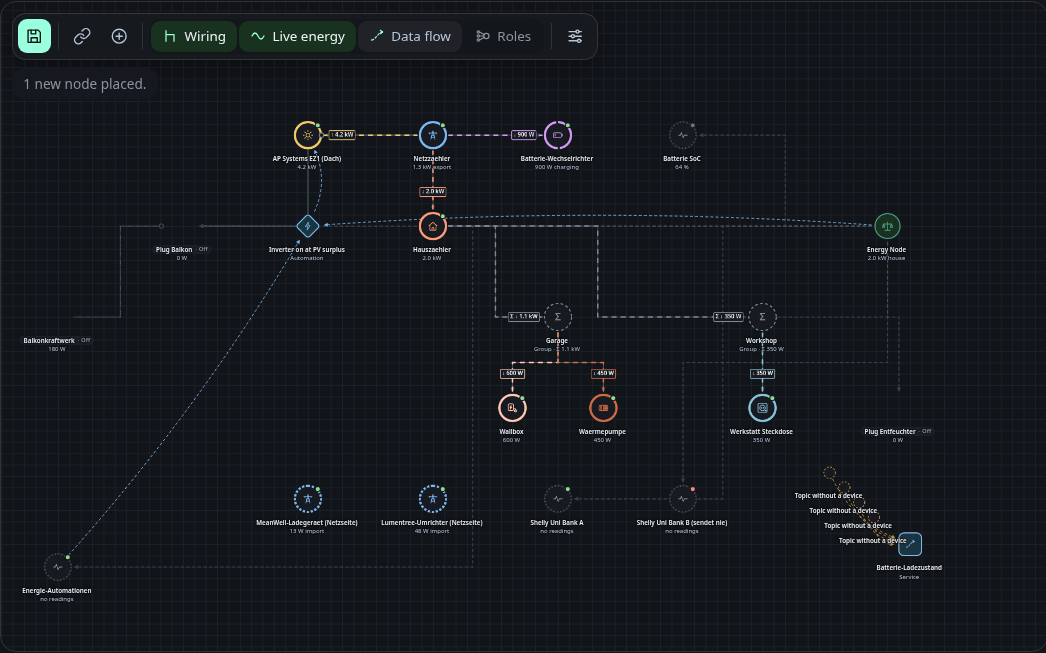
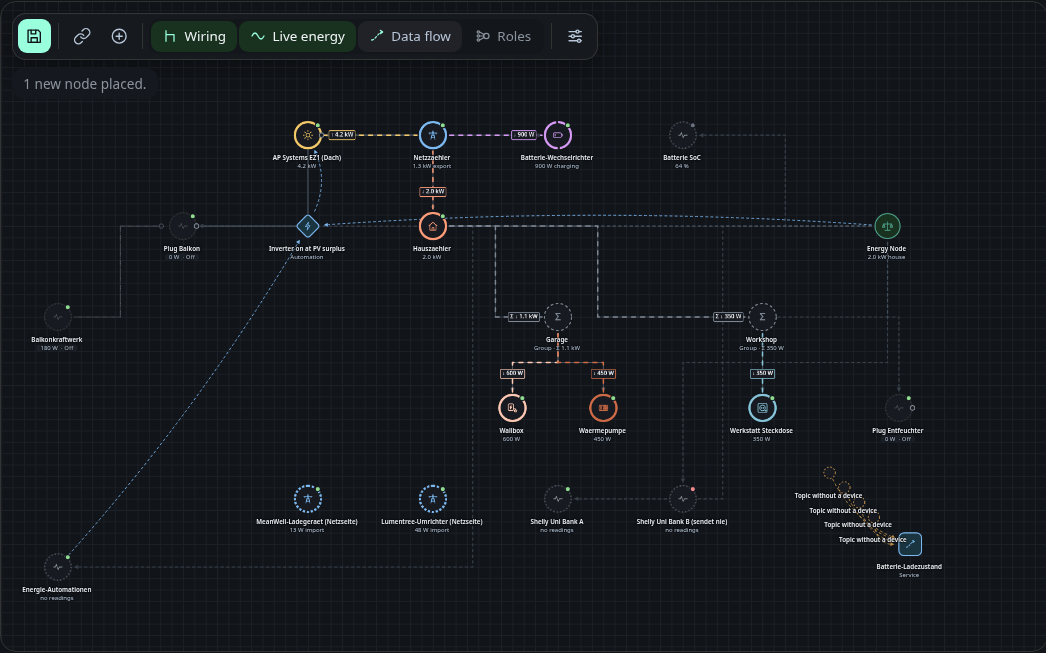
fix(devicemap): draw quiet node images, move the off pill and echo switch commands
Cytoscape kept data() inside a background-image list as a literal URL, so quiet nodes drew no image. The image is now a style function and covered by a test against real Cytoscape. The off pill sits under the value instead of the name. The minibroker echoes discovery switch commands as non-retained state so the registry resolves the pending command. Device map doc images retaken.

diff --git a/dashboard/internal/webui/templates/base.html b/dashboard/internal/webui/templates/base.html
@@ -218,11 +218,11 @@
   <section id="stats-panel" class="panel" role="tabpanel" aria-labelledby="tab-stats" x-bind:class="{ active: activePanel === 'stats-panel' }" x-show="activePanel === 'stats-panel'" data-panel-src="{{.BasePath}}/?fragment=panel&panel=stats" data-panel-script="{{.BasePath}}/static/js-deps/apexcharts.min.js,{{.BasePath}}/static/js/energy-model.js?v=4,{{.BasePath}}/static/js/energy-stats-model.js?v=3,{{.BasePath}}/static/js/stats.page.js?v=4" data-panel-css="{{.BasePath}}/static/css/history.css?v=7,{{.BasePath}}/static/css/stats.css?v=3"><p class="panel-loading" data-panel-loading>{{t "panel.stats_loading"}}</p></section>
   {{if .Manager}}
   <section id="diagnostics-panel" class="panel" role="tabpanel" aria-labelledby="tab-diagnostics" x-bind:class="{ active: activePanel === 'diagnostics-panel' }" x-show="activePanel === 'diagnostics-panel'" data-panel-src="{{.BasePath}}/?fragment=panel&panel=diagnostics" data-panel-css="{{.BasePath}}/static/css/settings-controls.css?v=14,{{.BasePath}}/static/css/diagnostics.css?v=2"><p class="panel-loading" data-panel-loading>{{t "panel.diagnostics_loading"}}</p></section>
-  <section id="config-panel" class="panel" role="tabpanel" aria-labelledby="tab-config" x-bind:class="{ active: activePanel === 'config-panel' }" x-show="activePanel === 'config-panel'" data-panel-src="{{.BasePath}}/?fragment=panel&panel=config" data-panel-script="{{.BasePath}}/static/js/revisions.js?v=4,{{.BasePath}}/static/js/schema-form.js?v=2,{{.BasePath}}/static/js/config-status.js?v=3,{{.BasePath}}/static/js/config.page.js?v=9" data-panel-css="{{.BasePath}}/static/css/manager.css?v=38"><p class="panel-loading" data-panel-loading>{{t "panel.config_loading"}}</p></section>
-  <section id="energy-panel" class="panel" role="tabpanel" aria-labelledby="tab-energy" x-bind:class="{ active: activePanel === 'energy-panel' }" x-show="activePanel === 'energy-panel'" data-panel-src="{{.BasePath}}/?fragment=panel&panel=energy" data-panel-script="{{.BasePath}}/static/js-deps/cytoscape.min.js,{{.BasePath}}/static/js/revisions.js?v=4,{{.BasePath}}/static/js/devicemap-model.js?v=10,{{.BasePath}}/static/js/devicemap-graph.js?v=5,{{.BasePath}}/static/js/devicemap-wiring.js?v=1,{{.BasePath}}/static/js/devicemap-dataflow.js?v=4,{{.BasePath}}/static/js/devicemap-node-svg.js?v=5,{{.BasePath}}/static/js/devicemap-labels.js?v=3,{{.BasePath}}/static/js/energy-plant.js?v=5,{{.BasePath}}/static/js/device-picker.js?v=1,{{.BasePath}}/static/js/energy.page.js?v=10" data-panel-css="{{.BasePath}}/static/css/manager.css?v=38"><p class="panel-loading" data-panel-loading>{{t "panel.energy_loading"}}</p></section>
-  <section id="devicemap-panel" class="panel" role="tabpanel" aria-labelledby="tab-devicemap" x-bind:class="{ active: activePanel === 'devicemap-panel' }" x-show="activePanel === 'devicemap-panel'" data-panel-src="{{.BasePath}}/?fragment=panel&panel=devicemap" data-panel-script="{{.BasePath}}/static/js-deps/cytoscape.min.js,{{.BasePath}}/static/js/revisions.js?v=4,{{.BasePath}}/static/js/devicemap-model.js?v=10,{{.BasePath}}/static/js/devicemap-node-svg.js?v=5,{{.BasePath}}/static/js/devicemap-labels.js?v=3,{{.BasePath}}/static/js/devicemap-graph.js?v=5,{{.BasePath}}/static/js/devicemap-wiring.js?v=1,{{.BasePath}}/static/js/devicemap-dataflow.js?v=4,{{.BasePath}}/static/js/automations-view.js?v=2,{{.BasePath}}/static/js/device-picker.js?v=1,{{.BasePath}}/static/js/devicemap-switch.js?v=1,{{.BasePath}}/static/js/devicemap.page.js?v=25" data-panel-css="{{.BasePath}}/static/css/manager.css?v=38"><p class="panel-loading" data-panel-loading>{{t "panel.devicemap_loading"}}</p></section>
-  <section id="settings-panel" class="panel" role="tabpanel" aria-labelledby="tab-settings" x-bind:class="{ active: activePanel === 'settings-panel' }" x-show="activePanel === 'settings-panel'" data-panel-src="{{.BasePath}}/?fragment=panel&panel=settings" data-panel-script="{{.BasePath}}/static/js-deps/choices.min.js,{{.BasePath}}/static/js/revisions.js?v=4,{{.BasePath}}/static/js/schema-form.js?v=2,{{.BasePath}}/static/js/settings.page.js?v=23,{{.BasePath}}/static/js/mqtt.page.js?v=10,{{.BasePath}}/static/js/tailscale.page.js?v=4,{{.BasePath}}/static/js/versions.page.js?v=7,{{.BasePath}}/static/js/systemconfig.page.js?v=5" data-panel-css="{{.BasePath}}/static/css/choices.min.css,{{.BasePath}}/static/css/choices.css?v=2,{{.BasePath}}/static/css/manager.css?v=38,{{.BasePath}}/static/css/settings-controls.css?v=14"><p class="panel-loading" data-panel-loading>{{t "panel.settings_loading"}}</p></section>
-  {{if index .InstalledServices "automation"}}<section id="automations-panel" class="panel" role="tabpanel" aria-labelledby="tab-automations" x-bind:class="{ active: activePanel === 'automations-panel' }" x-show="activePanel === 'automations-panel'" data-panel-src="{{.BasePath}}/?fragment=panel&panel=automations" data-panel-script="{{.BasePath}}/static/js/config-status.js?v=3,{{.BasePath}}/static/js/automations-view.js?v=2,{{.BasePath}}/static/js/automations.page.js?v=12" data-panel-css="{{.BasePath}}/static/css/manager.css?v=38,{{.BasePath}}/static/css/automations.css?v=6"><p class="panel-loading" data-panel-loading>{{t "panel.automations_loading"}}</p></section>{{end}}
+  <section id="config-panel" class="panel" role="tabpanel" aria-labelledby="tab-config" x-bind:class="{ active: activePanel === 'config-panel' }" x-show="activePanel === 'config-panel'" data-panel-src="{{.BasePath}}/?fragment=panel&panel=config" data-panel-script="{{.BasePath}}/static/js/revisions.js?v=4,{{.BasePath}}/static/js/schema-form.js?v=2,{{.BasePath}}/static/js/config-status.js?v=3,{{.BasePath}}/static/js/config.page.js?v=9" data-panel-css="{{.BasePath}}/static/css/manager.css?v=39"><p class="panel-loading" data-panel-loading>{{t "panel.config_loading"}}</p></section>
+  <section id="energy-panel" class="panel" role="tabpanel" aria-labelledby="tab-energy" x-bind:class="{ active: activePanel === 'energy-panel' }" x-show="activePanel === 'energy-panel'" data-panel-src="{{.BasePath}}/?fragment=panel&panel=energy" data-panel-script="{{.BasePath}}/static/js-deps/cytoscape.min.js,{{.BasePath}}/static/js/revisions.js?v=4,{{.BasePath}}/static/js/devicemap-model.js?v=10,{{.BasePath}}/static/js/devicemap-graph.js?v=6,{{.BasePath}}/static/js/devicemap-wiring.js?v=1,{{.BasePath}}/static/js/devicemap-dataflow.js?v=4,{{.BasePath}}/static/js/devicemap-node-svg.js?v=5,{{.BasePath}}/static/js/devicemap-labels.js?v=4,{{.BasePath}}/static/js/energy-plant.js?v=5,{{.BasePath}}/static/js/device-picker.js?v=1,{{.BasePath}}/static/js/energy.page.js?v=10" data-panel-css="{{.BasePath}}/static/css/manager.css?v=39"><p class="panel-loading" data-panel-loading>{{t "panel.energy_loading"}}</p></section>
+  <section id="devicemap-panel" class="panel" role="tabpanel" aria-labelledby="tab-devicemap" x-bind:class="{ active: activePanel === 'devicemap-panel' }" x-show="activePanel === 'devicemap-panel'" data-panel-src="{{.BasePath}}/?fragment=panel&panel=devicemap" data-panel-script="{{.BasePath}}/static/js-deps/cytoscape.min.js,{{.BasePath}}/static/js/revisions.js?v=4,{{.BasePath}}/static/js/devicemap-model.js?v=10,{{.BasePath}}/static/js/devicemap-node-svg.js?v=5,{{.BasePath}}/static/js/devicemap-labels.js?v=4,{{.BasePath}}/static/js/devicemap-graph.js?v=6,{{.BasePath}}/static/js/devicemap-wiring.js?v=1,{{.BasePath}}/static/js/devicemap-dataflow.js?v=4,{{.BasePath}}/static/js/automations-view.js?v=2,{{.BasePath}}/static/js/device-picker.js?v=1,{{.BasePath}}/static/js/devicemap-switch.js?v=1,{{.BasePath}}/static/js/devicemap.page.js?v=25" data-panel-css="{{.BasePath}}/static/css/manager.css?v=39"><p class="panel-loading" data-panel-loading>{{t "panel.devicemap_loading"}}</p></section>
+  <section id="settings-panel" class="panel" role="tabpanel" aria-labelledby="tab-settings" x-bind:class="{ active: activePanel === 'settings-panel' }" x-show="activePanel === 'settings-panel'" data-panel-src="{{.BasePath}}/?fragment=panel&panel=settings" data-panel-script="{{.BasePath}}/static/js-deps/choices.min.js,{{.BasePath}}/static/js/revisions.js?v=4,{{.BasePath}}/static/js/schema-form.js?v=2,{{.BasePath}}/static/js/settings.page.js?v=23,{{.BasePath}}/static/js/mqtt.page.js?v=10,{{.BasePath}}/static/js/tailscale.page.js?v=4,{{.BasePath}}/static/js/versions.page.js?v=7,{{.BasePath}}/static/js/systemconfig.page.js?v=5" data-panel-css="{{.BasePath}}/static/css/choices.min.css,{{.BasePath}}/static/css/choices.css?v=2,{{.BasePath}}/static/css/manager.css?v=39,{{.BasePath}}/static/css/settings-controls.css?v=14"><p class="panel-loading" data-panel-loading>{{t "panel.settings_loading"}}</p></section>
+  {{if index .InstalledServices "automation"}}<section id="automations-panel" class="panel" role="tabpanel" aria-labelledby="tab-automations" x-bind:class="{ active: activePanel === 'automations-panel' }" x-show="activePanel === 'automations-panel'" data-panel-src="{{.BasePath}}/?fragment=panel&panel=automations" data-panel-script="{{.BasePath}}/static/js/config-status.js?v=3,{{.BasePath}}/static/js/automations-view.js?v=2,{{.BasePath}}/static/js/automations.page.js?v=12" data-panel-css="{{.BasePath}}/static/css/manager.css?v=39,{{.BasePath}}/static/css/automations.css?v=6"><p class="panel-loading" data-panel-loading>{{t "panel.automations_loading"}}</p></section>{{end}}
   {{else}}
   <section id="diagnostics-panel" class="panel" role="tabpanel" aria-labelledby="tab-diagnostics" x-bind:class="{ active: activePanel === 'diagnostics-panel' }" x-show="activePanel === 'diagnostics-panel'" data-panel-src="{{.BasePath}}/?fragment=panel&panel=diagnostics" data-panel-css="{{.BasePath}}/static/css/settings-controls.css?v=14,{{.BasePath}}/static/css/diagnostics.css?v=2"><p class="panel-loading" data-panel-loading>{{t "panel.diagnostics_loading"}}</p></section>
   {{end}}

diff --git a/dashboard/internal/webui/static/js/devicemap-labels.js b/dashboard/internal/webui/static/js/devicemap-labels.js
@@ -19,23 +19,23 @@
           el = document.createElement('div');
           el.className = 'devicemap-node-label';
           el.dataset.labelId = item.id;
-          // The title wrapper is the pill for switched-off nodes, so it
-          // wraps the name and the off text together.
-          const title = document.createElement('span');
-          title.className = 'devicemap-node-title';
           const name = document.createElement('span');
           name.className = 'devicemap-node-name';
-          title.appendChild(name);
+          // The reading wrapper is the pill for switched-off nodes, so it
+          // wraps the value and the off text together.
+          const reading = document.createElement('span');
+          reading.className = 'devicemap-node-reading';
           const value = document.createElement('span');
           value.className = 'devicemap-node-value';
-          el.append(title, value);
+          reading.appendChild(value);
+          el.append(name, reading);
           container.appendChild(el);
           byId.set(item.id, el);
         }
-        const title = el.querySelector('.devicemap-node-title');
-        title.querySelector('.devicemap-node-name').textContent = item.name;
+        el.querySelector('.devicemap-node-name').textContent = item.name;
         el.querySelector('.devicemap-node-value').textContent = item.value;
-        const off = title.querySelector('.devicemap-node-off');
+        const reading = el.querySelector('.devicemap-node-reading');
+        const off = reading.querySelector('.devicemap-node-off');
         if (item.off) {
           el.classList.add('is-off');
           if (off) {
@@ -44,7 +44,7 @@
             const pill = document.createElement('span');
             pill.className = 'devicemap-node-off';
             pill.textContent = `· ${item.offText}`;
-            title.appendChild(pill);
+            reading.appendChild(pill);
           }
         } else {
           el.classList.remove('is-off');

diff --git a/dashboard/internal/webui/static/css/manager.css b/dashboard/internal/webui/static/css/manager.css
@@ -401,12 +401,12 @@ select.schema-control {
 .devicemap-node-label.is-dimmed { opacity: .18; }
 .devicemap-node-label.is-hidden { opacity: 0; }
 @media (prefers-reduced-motion: reduce) { .devicemap-node-label { transition-delay: 0ms !important; } }
-/* Off pill: a grey capsule around the name and "· Aus" of a switched-off node. */
-.devicemap-node-title { display: inline-flex; align-items: center; gap: .35em; padding: 1px 7px; border-radius: 999px;
+/* Off pill: a grey capsule around the value and "· Aus" of a switched-off node. */
+.devicemap-node-reading { display: inline-flex; align-items: center; gap: .35em; padding: 0 7px; border-radius: 999px;
   background-color: transparent; transition: opacity 250ms var(--ease-out), background-color 250ms var(--ease-out); }
-.devicemap-node-label.is-off .devicemap-node-title { background-color: var(--panel-alt); }
+.devicemap-node-label.is-off .devicemap-node-reading { background-color: var(--panel-alt); }
 .devicemap-node-off { font-size: 10.5px; font-weight: 600; color: var(--text-muted); line-height: 1.25; }
-@media (prefers-reduced-motion: reduce) { .devicemap-node-title { transition-duration: 150ms; } }
+@media (prefers-reduced-motion: reduce) { .devicemap-node-reading { transition-duration: 150ms; } }
 .devicemap-node-name { font-size: 11px; font-weight: 600; color: var(--text-strong); line-height: 1.25; }
 .devicemap-node-value { font-size: 10.5px; color: var(--text-subtle); font-variant-numeric: tabular-nums; line-height: 1.25; }
 .devicemap-overlay {

diff --git a/dashboard/internal/webui/static/js/devicemap-graph.js b/dashboard/internal/webui/static/js/devicemap-graph.js
@@ -181,8 +181,10 @@
     {selector: 'edge.devicemap-wiring.devicemap-dead', style: {'line-style': 'dotted', 'line-dash-pattern': [2, 4], 'line-color': theme.faint, 'target-arrow-shape': 'none'}},
     {selector: 'edge.devicemap-cut', style: {'source-arrow-shape': 'circle', 'source-arrow-fill': 'hollow', 'source-arrow-color': theme.faint, 'source-distance-from-node': 6}},
     // Quiet nodes stack the normal and the quiet image. Cytoscape interpolates
-    // the list opacities, Task 8 relies on that for the cross-fade.
-    {selector: 'node[svgQuiet]', style: {'background-image': ['data(svg)', 'data(svgQuiet)'], 'background-image-opacity': [1, 0]}},
+    // the list opacities, the cross-fade relies on that. The list comes from a
+    // function because Cytoscape leaves a data() mapper inside a list as the
+    // literal URL "data(svg)", which draws no image at all.
+    {selector: 'node[svgQuiet]', style: {'background-image': node => [node.data('svg'), node.data('svgQuiet')], 'background-image-opacity': [1, 0]}},
     {selector: 'node[svgQuiet][?quiet]', style: {'background-image-opacity': [0, 1]}},
     {selector: 'edge.devicemap-flow', style: {
       ...(EDGE_STYLES[view.edge_style] || EDGE_STYLES.straight),

diff --git a/dashboard/internal/webui/webui_test.go b/dashboard/internal/webui/webui_test.go
@@ -55,7 +55,7 @@ func TestOverviewRendersManagerControls(t *testing.T) {
 		"id=\"devices-live\"", "hx-get=\"/?fragment=devices-live\"",
 		"id=\"runtime-status\"", "runtimeStatusPanel", "data-runtime-status-enabled=\"true\"", "data-status-bar-items=\"mqtt,storage,uptime,version\"", "aria-live=\"polite\"",
 		"device-detail", "device-modal-warning", "discovery-diagnostics", "discovery_errors", "duplicateIDs", "discovery-error",
-		"Konfiguration", "Einstellungen", "Diagnose", "license-footer", "(0BSD)", "(MIT, Copyright Caleb Porzio)", "ApexCharts 4.7.0", "(MIT, Copyright ApexCharts)", "ApexCharts-Lizenz", "v2.0.6/LICENSE", "v3.14.9/README.md", "configPanel", "x-model=\"selectedName\"", "reloadService()", "show-runtime-status", "showRuntimeStatus", "role=\"switch\"", "settings-toggle-track", "id=\"config-panel\"", "id=\"energy-panel\"", "data-panel-script=\"/static/js/revisions.js?v=4,/static/js/schema-form.js?v=2,/static/js/config-status.js?v=3,/static/js/config.page.js?v=9\"", "data-panel-script=\"/static/js-deps/cytoscape.min.js,/static/js/revisions.js?v=4,/static/js/devicemap-model.js?v=10,/static/js/devicemap-graph.js?v=5,/static/js/devicemap-wiring.js?v=1,/static/js/devicemap-dataflow.js?v=4,/static/js/devicemap-node-svg.js?v=5,/static/js/devicemap-labels.js?v=3,/static/js/energy-plant.js?v=5,/static/js/device-picker.js?v=1,/static/js/energy.page.js?v=10\"", "data-panel-css=\"/static/css/manager.css?v=38\"",
+		"Konfiguration", "Einstellungen", "Diagnose", "license-footer", "(0BSD)", "(MIT, Copyright Caleb Porzio)", "ApexCharts 4.7.0", "(MIT, Copyright ApexCharts)", "ApexCharts-Lizenz", "v2.0.6/LICENSE", "v3.14.9/README.md", "configPanel", "x-model=\"selectedName\"", "reloadService()", "show-runtime-status", "showRuntimeStatus", "role=\"switch\"", "settings-toggle-track", "id=\"config-panel\"", "id=\"energy-panel\"", "data-panel-script=\"/static/js/revisions.js?v=4,/static/js/schema-form.js?v=2,/static/js/config-status.js?v=3,/static/js/config.page.js?v=9\"", "data-panel-script=\"/static/js-deps/cytoscape.min.js,/static/js/revisions.js?v=4,/static/js/devicemap-model.js?v=10,/static/js/devicemap-graph.js?v=6,/static/js/devicemap-wiring.js?v=1,/static/js/devicemap-dataflow.js?v=4,/static/js/devicemap-node-svg.js?v=5,/static/js/devicemap-labels.js?v=4,/static/js/energy-plant.js?v=5,/static/js/device-picker.js?v=1,/static/js/energy.page.js?v=10\"", "data-panel-css=\"/static/css/manager.css?v=39\"",
 		"schema-form", "revision-preview", "config-presets-error",
 		"config-actionbar-dock", "initActionBar()", "actionStatusText", "expandActions()", "id=\"config-form-save\"", "x-on:input=\"formDirty = true\"", "config-json", "resetEditor()", "id=\"config-save\"", "config-meta",
 		"revision-diff", "revisionPanel(revisionConfig())", "setRevisionView('diff')",
@@ -147,7 +147,7 @@ func TestOverviewDoesNotLoadManagerAssetsInitially(t *testing.T) {
 			t.Fatalf("%s does not declare lazy script %q", path, script)
 		}
 	}
-	if !strings.Contains(body, `data-panel-css="/static/css/choices.min.css,/static/css/choices.css?v=2,/static/css/manager.css?v=38,/static/css/settings-controls.css?v=14"`) {
+	if !strings.Contains(body, `data-panel-css="/static/css/choices.min.css,/static/css/choices.css?v=2,/static/css/manager.css?v=39,/static/css/settings-controls.css?v=14"`) {
 		t.Fatal("settings-panel does not declare lazy choices.css + manager.css + settings-controls.css")
 	}
 	if strings.Contains(body, `<link rel="stylesheet" href="/static/css/choices.min.css"`) {
@@ -1121,7 +1121,7 @@ func TestOverviewPrefixesEveryURLBehindAForwardedPrefix(t *testing.T) {
 		`<script src="/node/static/js/dashboard.js`,
 		`<script src="/node/static/js-deps/alpine.min.js"`,
 		`data-panel-src="/node/?fragment=panel&panel=devices"`,
-		`data-panel-css="/node/static/css/choices.min.css,/node/static/css/choices.css?v=2,/node/static/css/manager.css?v=38,/node/static/css/settings-controls.css?v=14"`,
+		`data-panel-css="/node/static/css/choices.min.css,/node/static/css/choices.css?v=2,/node/static/css/manager.css?v=39,/node/static/css/settings-controls.css?v=14"`,
 	} {
 		if !strings.Contains(body, marker) {
 			t.Fatalf("proxied page does not contain %q", marker)

diff --git a/dashboard/test/smoke/minibroker.py b/dashboard/test/smoke/minibroker.py
@@ -20,6 +20,11 @@ Nichts davon wird fuer den Smoke-Test gebraucht. Nicht ausserhalb von Tests verw
 
 PUBLISH von Clients wird wie bei einem echten Broker weitergereicht und retained abgelegt. So sieht das Dashboard seine eigene Discovery und zeigt das Geraet energy_node in jedem Preset.
 
+Discovery-Schalter der Fixture (homeassistant/switch/.../config) antworten wie
+ein Geraet: ein Befehl auf ihrem command_topic setzt den Zustand auf dem
+state_topic. So laesst sich z. B. Plug Balkon im Preset alle-funktionen
+schalten.
+
     python3 minibroker.py [PORT] [FIXTURE.json] [--simulate]
                           [--service-status DEVICES_DIR] [--reject-config NAME ...]
 
@@ -151,6 +156,33 @@ def relay(messages, connections, topic, payload, retain):
                 conn.sendall(publish_packet(topic, payload, retain=False))
         except OSError:
             connections.pop(conn, None)
+    echo_switch(messages, connections, topic, payload)
+
+
+def echo_switch(messages, connections, topic, payload):
+    """Spielt das Geraet hinter einem Discovery-Schalter der Fixture: ein
+    Befehl auf dessen command_topic kommt als neuer Zustand retained auf dem
+    state_topic zurueck. Ohne das bliebe ein Schaltbefehl aus dem Dashboard
+    folgenlos, die Geraetekarte zeigte die Steckdose nie eingeschaltet."""
+    for config_topic, raw in list(messages.items()):
+        if not (config_topic.startswith("homeassistant/switch/") and config_topic.endswith("/config")):
+            continue
+        try:
+            config = json.loads(raw)
+        except ValueError:
+            continue
+        if config.get("command_topic") != topic or not config.get("state_topic"):
+            continue
+        states = {
+            config.get("payload_on", "ON"): config.get("state_on", config.get("payload_on", "ON")),
+            config.get("payload_off", "OFF"): config.get("state_off", config.get("payload_off", "OFF")),
+        }
+        state = states.get(payload.decode("utf-8", "replace"))
+        if state is not None:
+            # broadcast() legt retained ab, sendet aber mit Retain-Flag 0 wie
+            # ein echter Broker an schon verbundene Clients. Nur eine solche
+            # Live-Nachricht bestaetigt im Dashboard den offenen Befehl.
+            broadcast(messages, connections, config["state_topic"], state.encode("utf-8"), False)
 
 
 def handle(conn, messages, connections):

diff --git a/dashboard/test/smoke/test_minibroker.py b/dashboard/test/smoke/test_minibroker.py
@@ -58,3 +58,32 @@ def test_relay_empty_retained_payload_removes_the_entry():
     messages = {"homeassistant/sensor/energy_node/pv_power/config": b"{}"}
     minibroker.relay(messages, {}, "homeassistant/sensor/energy_node/pv_power/config", b"", True)
     assert "homeassistant/sensor/energy_node/pv_power/config" not in messages
+
+
+PLUG_CONFIG = (b'{"state_topic": "plug/balkon/output", "command_topic": "plug/balkon/output/set",'
+               b' "payload_on": "1", "payload_off": "0", "state_on": "ON", "state_off": "OFF"}')
+
+
+def test_relay_echoes_a_switch_command_on_its_state_topic():
+    # Wie ein echtes Geraet: der Befehl auf command_topic kommt als neuer
+    # Zustand auf state_topic zurueck, in der state_on/state_off-Form. Abgelegt
+    # wird er retained, verbundene Clients bekommen ihn aber wie bei einem
+    # echten Broker mit Retain-Flag 0 - nur so gilt der Befehl im Dashboard
+    # als bestaetigt (registry: pendingResolved nur bei !retained).
+    messages = {"homeassistant/switch/plug_balkon/steckdose/config": PLUG_CONFIG,
+                "plug/balkon/output": b"OFF"}
+    conn = FakeConn()
+    minibroker.relay(messages, {conn: FakeLock()}, "plug/balkon/output/set", b"1", False)
+    assert messages["plug/balkon/output"] == b"ON"
+    assert minibroker.publish_packet("plug/balkon/output", b"ON", retain=False) in conn.sent
+    assert minibroker.publish_packet("plug/balkon/output", b"ON", retain=True) not in conn.sent
+    minibroker.relay(messages, {conn: FakeLock()}, "plug/balkon/output/set", b"0", False)
+    assert messages["plug/balkon/output"] == b"OFF"
+
+
+def test_relay_ignores_unknown_switch_payloads_and_other_topics():
+    messages = {"homeassistant/switch/plug_balkon/steckdose/config": PLUG_CONFIG,
+                "plug/balkon/output": b"OFF"}
+    minibroker.relay(messages, {}, "plug/balkon/output/set", b"TOGGLE", False)
+    minibroker.relay(messages, {}, "plug/other/set", b"1", False)
+    assert messages["plug/balkon/output"] == b"OFF"

diff --git a/docs/_internal/lazy-assets-cache-busting.md b/docs/_internal/lazy-assets-cache-busting.md
@@ -131,11 +131,11 @@ skips scripts already present as `<script src>`.
 | `devices-panel` | – | – |
 | `history-panel` | `js-deps/apexcharts.min.js` –, `js-deps/flatpickr.min.js` `1`, `js-deps/flatpickr-l10n-de.js` `1`, `js/history-export.js` `2`, `js/energy-model.js` `4`, `js/history.js` `21` | `css/flatpickr.min.css` `1`, `css/flatpickr.css` `1`, `css/history.css` `7` |
 | `diagnostics-panel` | – | `css/settings-controls.css` `14`, `css/diagnostics.css` `2` |
-| `config-panel` | `js/revisions.js` `4`, `js/schema-form.js` `2`, `js/config-status.js` `3`, `js/config.page.js` `9` | `css/manager.css` `38` |
-| `energy-panel` | `js-deps/cytoscape.min.js` –, `js/revisions.js` `4`, `js/devicemap-model.js` `9`, `js/devicemap-graph.js` `5`, `js/devicemap-wiring.js` `1`, `js/devicemap-dataflow.js` `4`, `js/devicemap-node-svg.js` `5`, `js/devicemap-labels.js` `3`, `js/energy-plant.js` `5`, `js/device-picker.js` `1`, `js/energy.page.js` `10` | `css/manager.css` `38` |
-| `devicemap-panel` | `js-deps/cytoscape.min.js` –, `js/revisions.js` `4`, `js/devicemap-model.js` `9`, `js/devicemap-node-svg.js` `5`, `js/devicemap-labels.js` `3`, `js/devicemap-graph.js` `5`, `js/devicemap-wiring.js` `1`, `js/devicemap-dataflow.js` `4`, `js/automations-view.js` `2`, `js/device-picker.js` `1`, `js/devicemap.page.js` `25` | `css/manager.css` `38` |
-| `settings-panel` | `js-deps/choices.min.js` –, `js/revisions.js` `4`, `js/schema-form.js` `2`, `js/settings.page.js` `23`, `js/mqtt.page.js` `10`, `js/tailscale.page.js` `4`, `js/versions.page.js` `7`, `js/systemconfig.page.js` `5` | `css/choices.min.css` –, `css/choices.css` `2`, `css/manager.css` `38`, `css/settings-controls.css` `14` |
-| `automations-panel` | `js/config-status.js` `3`, `js/automations-view.js` `2`, `js/automations.page.js` `12` | `css/manager.css` `38`, `css/automations.css` `6` |
+| `config-panel` | `js/revisions.js` `4`, `js/schema-form.js` `2`, `js/config-status.js` `3`, `js/config.page.js` `9` | `css/manager.css` `39` |
+| `energy-panel` | `js-deps/cytoscape.min.js` –, `js/revisions.js` `4`, `js/devicemap-model.js` `9`, `js/devicemap-graph.js` `6`, `js/devicemap-wiring.js` `1`, `js/devicemap-dataflow.js` `4`, `js/devicemap-node-svg.js` `5`, `js/devicemap-labels.js` `4`, `js/energy-plant.js` `5`, `js/device-picker.js` `1`, `js/energy.page.js` `10` | `css/manager.css` `39` |
+| `devicemap-panel` | `js-deps/cytoscape.min.js` –, `js/revisions.js` `4`, `js/devicemap-model.js` `9`, `js/devicemap-node-svg.js` `5`, `js/devicemap-labels.js` `4`, `js/devicemap-graph.js` `6`, `js/devicemap-wiring.js` `1`, `js/devicemap-dataflow.js` `4`, `js/automations-view.js` `2`, `js/device-picker.js` `1`, `js/devicemap.page.js` `25` | `css/manager.css` `39` |
+| `settings-panel` | `js-deps/choices.min.js` –, `js/revisions.js` `4`, `js/schema-form.js` `2`, `js/settings.page.js` `23`, `js/mqtt.page.js` `10`, `js/tailscale.page.js` `4`, `js/versions.page.js` `7`, `js/systemconfig.page.js` `5` | `css/choices.min.css` –, `css/choices.css` `2`, `css/manager.css` `39`, `css/settings-controls.css` `14` |
+| `automations-panel` | `js/config-status.js` `3`, `js/automations-view.js` `2`, `js/automations.page.js` `12` | `css/manager.css` `39`, `css/automations.css` `6` |
 | `stats-panel` | `js-deps/apexcharts.min.js` –, `js/energy-model.js` `4`, `js/energy-stats-model.js` `3`, `js/stats.page.js` `4` | `css/history.css` `7`, `css/stats.css` `3` |
 
 The former `layout-panel` is gone (the "layout edit mode" work): the layout
@@ -255,7 +255,7 @@ recomputable.
 
 | Dashboard version | Files | New `?v=` | Date |
 |---|---|---|---|
-| unreleased, `feat/devicemap-switch-state` | `js/devicemap-graph.js` (energy, device map) · `js/devicemap-node-svg.js` (energy, device map) · `js/devicemap-labels.js` (energy, device map) · `js/devicemap.page.js` (device map) · `js/dashboard.js` · `css/manager.css` (5 panels) | `5` · `5` · `3` · `25` · `35` · `38` | 2026-10-16 |
+| unreleased, `feat/devicemap-switch-state` | `js/devicemap-graph.js` (energy, device map) · `js/devicemap-node-svg.js` (energy, device map) · `js/devicemap-labels.js` (energy, device map) · `js/devicemap.page.js` (device map) · `js/dashboard.js` · `css/manager.css` (5 panels) | `6` · `5` · `4` · `25` · `35` · `39` | 2026-10-16 |
 | unreleased, `fix/review-findings-ui-data` | `css/base.css` (closed help tooltips no longer widen pages, anchored under the trigger on narrow screens, settings sub tabs and, per browser setting, the main tabs overflow into a "More" list) · `css/manager.css` (5 panels: device map side panel clipped to the stage, energy role cards fit narrow screens) · `js/dashboard.js` (favourite chips keep pick order, narrow-screen tooltip offset, main tab "More" list) · `js/automations.page.js` (state document from `/api/v1/automation/state`) · `js/stats.page.js` (thinned axis labels, hatched export and battery charge) · `js/energy-stats-model.js` (stats panel + energy cards, `HATCHED_ROLES`) · `css/stats.css` (hatched swatch) · `css/settings-controls.css` (settings, diagnostics: version help tooltip on narrow screens) · `js/settings.page.js` (settings panel, "More" tab list, main menu mode switch) | `37` · `37` · `34` · `12` · `4` · `3` · `3` · `14` · `23` | 2026-10-15 |
 | unreleased, `feat/discovery-more-roles` | `js/mqtt.page.js` (settings panel, additional Home Assistant sensors multiselect) | `9` | 2026-10-15 |
 | unreleased, `feat/history-hour-tier` | `js/history-rollup.js` (history panel, history tile) · `js/history-store.js` (`extent`, history panel, history tile) · `js/history-chart.js` (history panel, history tile) · `js/history.js` (history panel: coverage percentages, explicit resolution, refresh pause, resolution pill and pause button in the status line) · `css/history.css` (history panel, stats panel: status line controls) | `3` · `5` · `5` · `21` · `7` | 2026-10-15 |

diff --git a/docs/dashboard/device-map.md b/docs/dashboard/device-map.md
@@ -119,7 +119,7 @@ the Energy Node device, a separate balance node stands in for it.
 
 A smart plug or relay can switch its output off. The map shows this when the
 Wiring or the Live energy layer is on. The device whose output is off is marked
-**Output off**: its name gets a grey pill with "Off", and an open dot sits at its
+**Output off**: its value gets a grey pill with "Off", and an open dot sits at its
 connection. Everything that only gets its power through that device is dimmed,
 its flow stops and its outgoing connections turn dotted. In the connection card
 the line "No power because ... is off" names the device that cut the supply and
